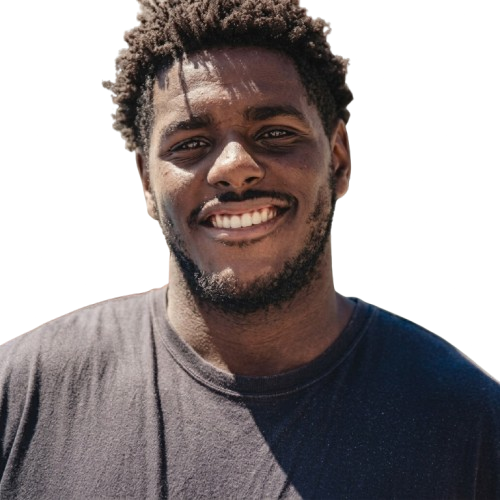
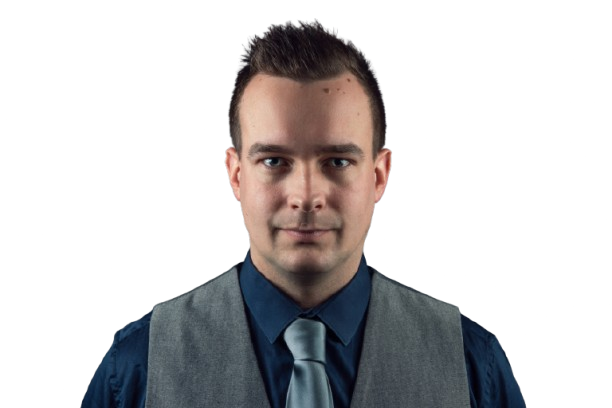
add team toggle expand with generic fallback and polish testimonials

diff --git a/src/components/about/AboutTeam.jsx b/src/components/about/AboutTeam.jsx
@@ -1,3 +1,5 @@
+import { useState } from "react";
+import { UserRound } from "lucide-react";
 import Button from "../ui/Button";
 import { aboutTeam } from "../../data/about";
 
@@ -41,6 +43,8 @@ const socialIcons = {
 };
 
 const AboutTeam = () => {
+  const [showAll, setShowAll] = useState(false);
+  const visibleTeam = showAll ? aboutTeam : aboutTeam.slice(0, 4);
   return (
     <section className="relative overflow-hidden bg-background py-16 md:py-24">
       {/* Soft background glow */}
@@ -74,11 +78,13 @@ const AboutTeam = () => {
             </p>
             <div className="mt-5">
               <Button
+                type="button"
                 variant="primary"
                 size="sm"
+                onClick={() => setShowAll((prev) => !prev)}
                 className="rounded-full px-6 py-2.5 shadow-sm"
               >
-                View All
+                {showAll ? "Show Less" : "View All"}
               </Button>
             </div>
           </div>
@@ -86,16 +92,24 @@ const AboutTeam = () => {
 
         {/* Team Grid */}
         <div className="mt-12 grid grid-cols-1 gap-6 sm:grid-cols-2 lg:grid-cols-4 lg:gap-8">
-          {aboutTeam.map((member) => (
+          {visibleTeam.map((member) => (
             <div key={member.id} className="group flex flex-col">
               {/* Image Frame */}
               <div className="relative aspect-4/5 w-full overflow-hidden rounded-3xl bg-primary/5 transition-transform duration-300 group-hover:-translate-y-1">
-                <img
-                  src={member.image}
-                  alt={member.name}
-                  loading="lazy"
-                  className="h-full w-full object-cover object-top"
-                />
+                {member.image ? (
+                  <img
+                    src={member.image}
+                    alt={member.name}
+                    loading="lazy"
+                    className="h-full w-full object-cover object-top"
+                  />
+                ) : (
+                  <div className="flex h-full w-full items-center justify-center bg-gradient-to-b from-primary/10 via-primary/5 to-muted/40">
+                    <div className="flex h-24 w-24 items-center justify-center rounded-full bg-background/70 text-primary/60 shadow-inner backdrop-blur-sm sm:h-28 sm:w-28">
+                      <UserRound className="h-12 w-12 sm:h-14 sm:w-14" aria-hidden="true" />
+                    </div>
+                  </div>
+                )}
 
                 {/* Floating Social Arch/Dock */}
                 <div className="absolute inset-x-4 bottom-0 flex justify-center">

diff --git a/src/data/about.js b/src/data/about.js
@@ -85,4 +85,92 @@ export const aboutTeam = [
       twitter: "#",
     },
   },
+  {
+    id: "hendra-kurniawan",
+    name: "Hendra Kurniawan",
+    role: "Senior Property Consultant",
+    image: null,
+    socialLinks: {
+      linkedin: "#",
+      instagram: "#",
+      twitter: "#",
+    },
+  },
+  {
+    id: "nadia-safira",
+    name: "Nadia Safira",
+    role: "Mortgage & Financing Specialist",
+    image: null,
+    socialLinks: {
+      linkedin: "#",
+      instagram: "#",
+      twitter: "#",
+    },
+  },
+  {
+    id: "rizky-ananda",
+    name: "Rizky Ananda",
+    role: "Market Research Analyst",
+    image: null,
+    socialLinks: {
+      linkedin: "#",
+      instagram: "#",
+      twitter: "#",
+    },
+  },
+  {
+    id: "alyssa-gunawan",
+    name: "Alyssa Gunawan",
+    role: "Client Relations Lead",
+    image: null,
+    socialLinks: {
+      linkedin: "#",
+      instagram: "#",
+      twitter: "#",
+    },
+  },
+  {
+    id: "bayu-setiawan",
+    name: "Bayu Setiawan",
+    role: "Commercial Property Advisor",
+    image: null,
+    socialLinks: {
+      linkedin: "#",
+      instagram: "#",
+      twitter: "#",
+    },
+  },
+  {
+    id: "clarissa-putri",
+    name: "Clarissa Putri",
+    role: "Interior & Spatial Consultant",
+    image: null,
+    socialLinks: {
+      linkedin: "#",
+      instagram: "#",
+      twitter: "#",
+    },
+  },
+  {
+    id: "reza-firmansyah",
+    name: "Reza Firmansyah",
+    role: "Valuation & Appraisals Lead",
+    image: null,
+    socialLinks: {
+      linkedin: "#",
+      instagram: "#",
+      twitter: "#",
+    },
+  },
+  {
+    id: "maya-anggraeni",
+    name: "Maya Anggraeni",
+    role: "Digital Marketing & Brand Strategist",
+    image: null,
+    socialLinks: {
+      linkedin: "#",
+      instagram: "#",
+      twitter: "#",
+    },
+  },
 ];

diff --git a/src/data/testimonials.js b/src/data/testimonials.js
@@ -1,10 +1,10 @@
 export const testimonials = [
   {
     id: "testi-001",
-    name: "John Doe",
-    role: "Director at Traveloka",
+    name: "Gilang",
+    role: "Pembeli rumah",
     quote:
-      "This platform is awesome. I find my new home for my family in Jakarta and the process is very easy. Trusted & Guaranted.",
+      "Proses cari rumah untuk keluarga di Jakarta jadi jauh lebih simpel dan transparan. Timnya sangat membantu dari survei sampai urusan legalitas.",
     avatar: "/testimonials-image/person-1.png",
   },
   {
@@ -20,7 +20,7 @@ export const testimonials = [
     name: "Citra Lestari",
     role: "Penyewa apartemen",
     quote:
-      "Cari unit untuk disewa itu cepat. Foto dan deskripsi sesuai dengan kondisi aslinya.",
+      "Dapat unit sewa yang pas cuma dalam hitungan hari. Kondisi aslinya persis seperti di foto dan deskripsi, nggak ada yang ditutup-tutupi.",
     avatar: "/testimonials-image/person-3.png",
   },
   {

diff --git a/ABOUT_PLAN.md b/ABOUT_PLAN.md
@@ -52,7 +52,7 @@ Dokumen ini berisi rencana implementasi halaman **About Us** (`/about`) yang dia
 
 - [x] `aboutStats`: 3 metrik performa utama (misal: 98% Kepuasan Klien, 500+ Properti Terkurasi, 12K+ Keluarga Terbantu).
 - [x] `aboutFeatures`: 4 item accordion untuk *Why Choose Us* (title, description, icon opsional).
-- [x] `aboutTeam`: 4 data profil tim (id, name, role, image, socialLinks: linkedin, twitter, instagram).
+- [x] `aboutTeam`: 12 data profil tim (4 foto asli + 8 generic avatar dengan toggle expand).
 - [ ] `aboutPartners`: daftar partner developer/institusi properti terkemuka (name, logo/text).
 
 ### 2.2 Komponen Section (`src/components/about/`)
